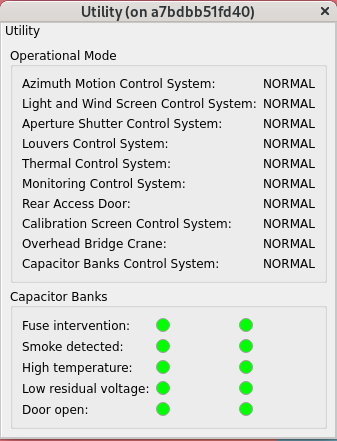
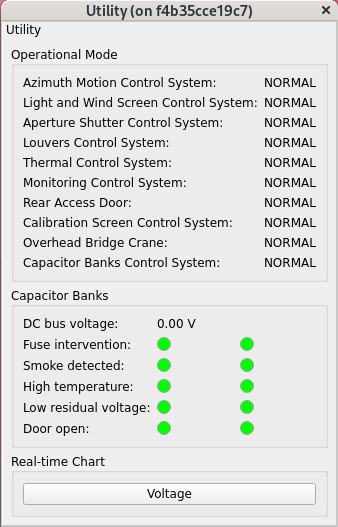
Update the documents.

diff --git a/doc/user-guide/user-guide.rst b/doc/user-guide/user-guide.rst
@@ -160,6 +160,13 @@ In addition, there are the indicators of the capacity bank.
 The green color means everything is fine, and the red color means there is an issue.
 If you see any indicator to be red, you need to check the capacity bank to see what is going on.
 
+You can base on the DC bus voltage to know the capacitor banks are connected or not.
+If the voltage is lower than 25 V, you will see the "Low residual voltage" indicator to be red.
+If the capacitor banks are connected and there is no issue, once the control system receives the ``moveAz()`` command, they will begin to charge until 690 V to do the movement.
+Otherwise, you should see the voltage keeps low after issuing the ``moveAz()`` command.
+Then, you know maybe they are not connected or something went wrong (such as the blowing fuses or others).
+If the capacitor banks are not connected, the azimuth control system can only run the degraded mode.
+
 .. _lsst.ts.mtdomegui-user_azimuth:
 
 Azimuth

diff --git a/doc/version_history.rst b/doc/version_history.rst
@@ -6,6 +6,14 @@
 Version History
 ##################
 
+.. _lsst.ts.mtdomegui-0.4.9:
+
+-------------
+0.4.9
+-------------
+
+* Support the DC bus voltage of capacitor banks.
+
 .. _lsst.ts.mtdomegui-0.4.8:
 
 -------------
